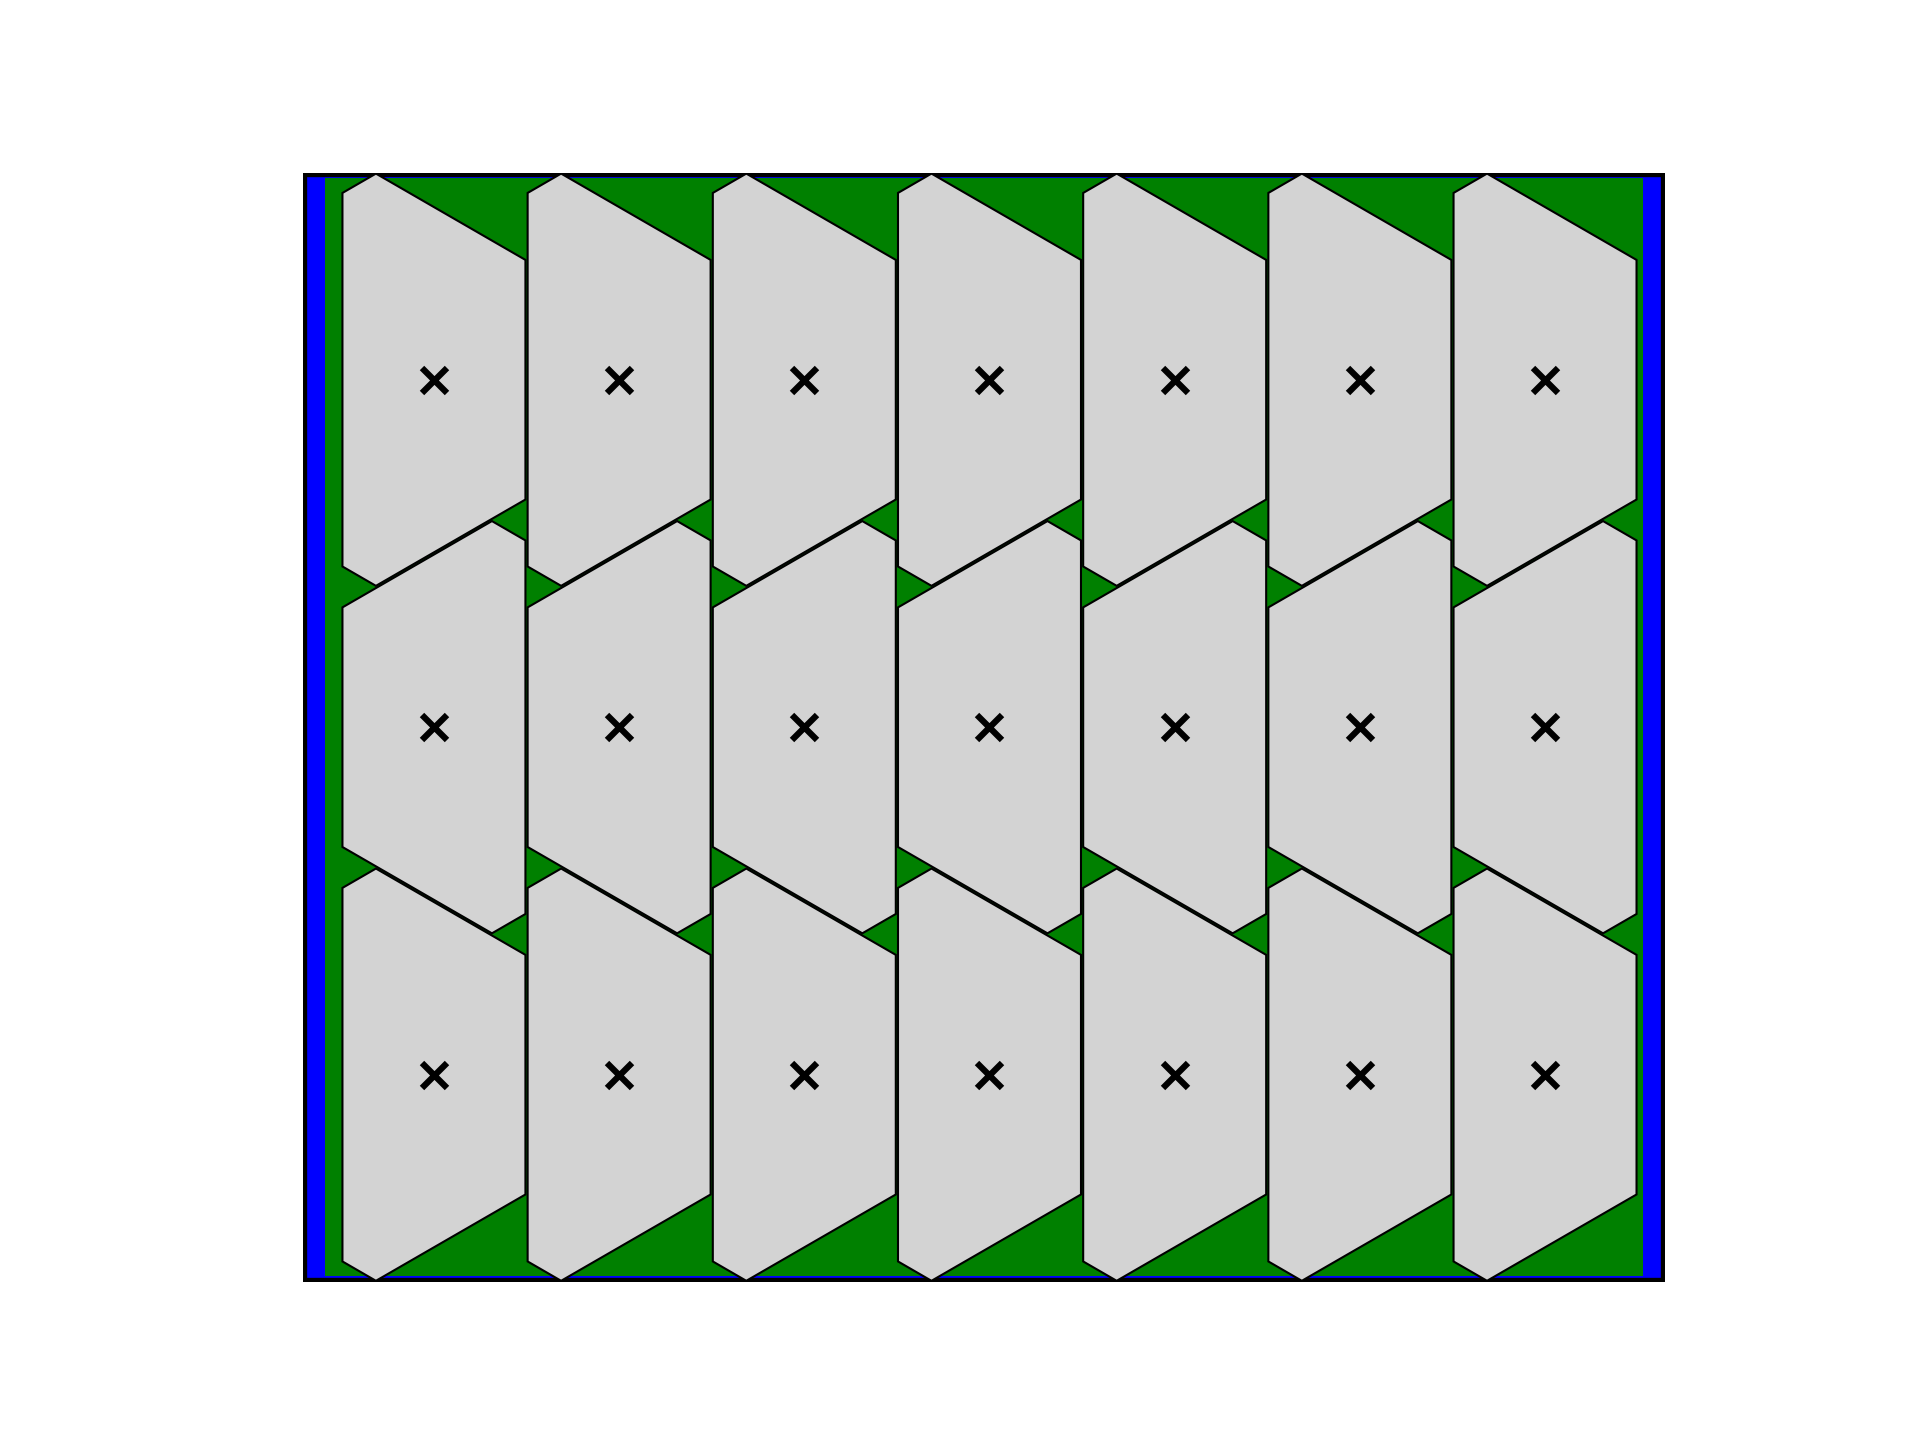
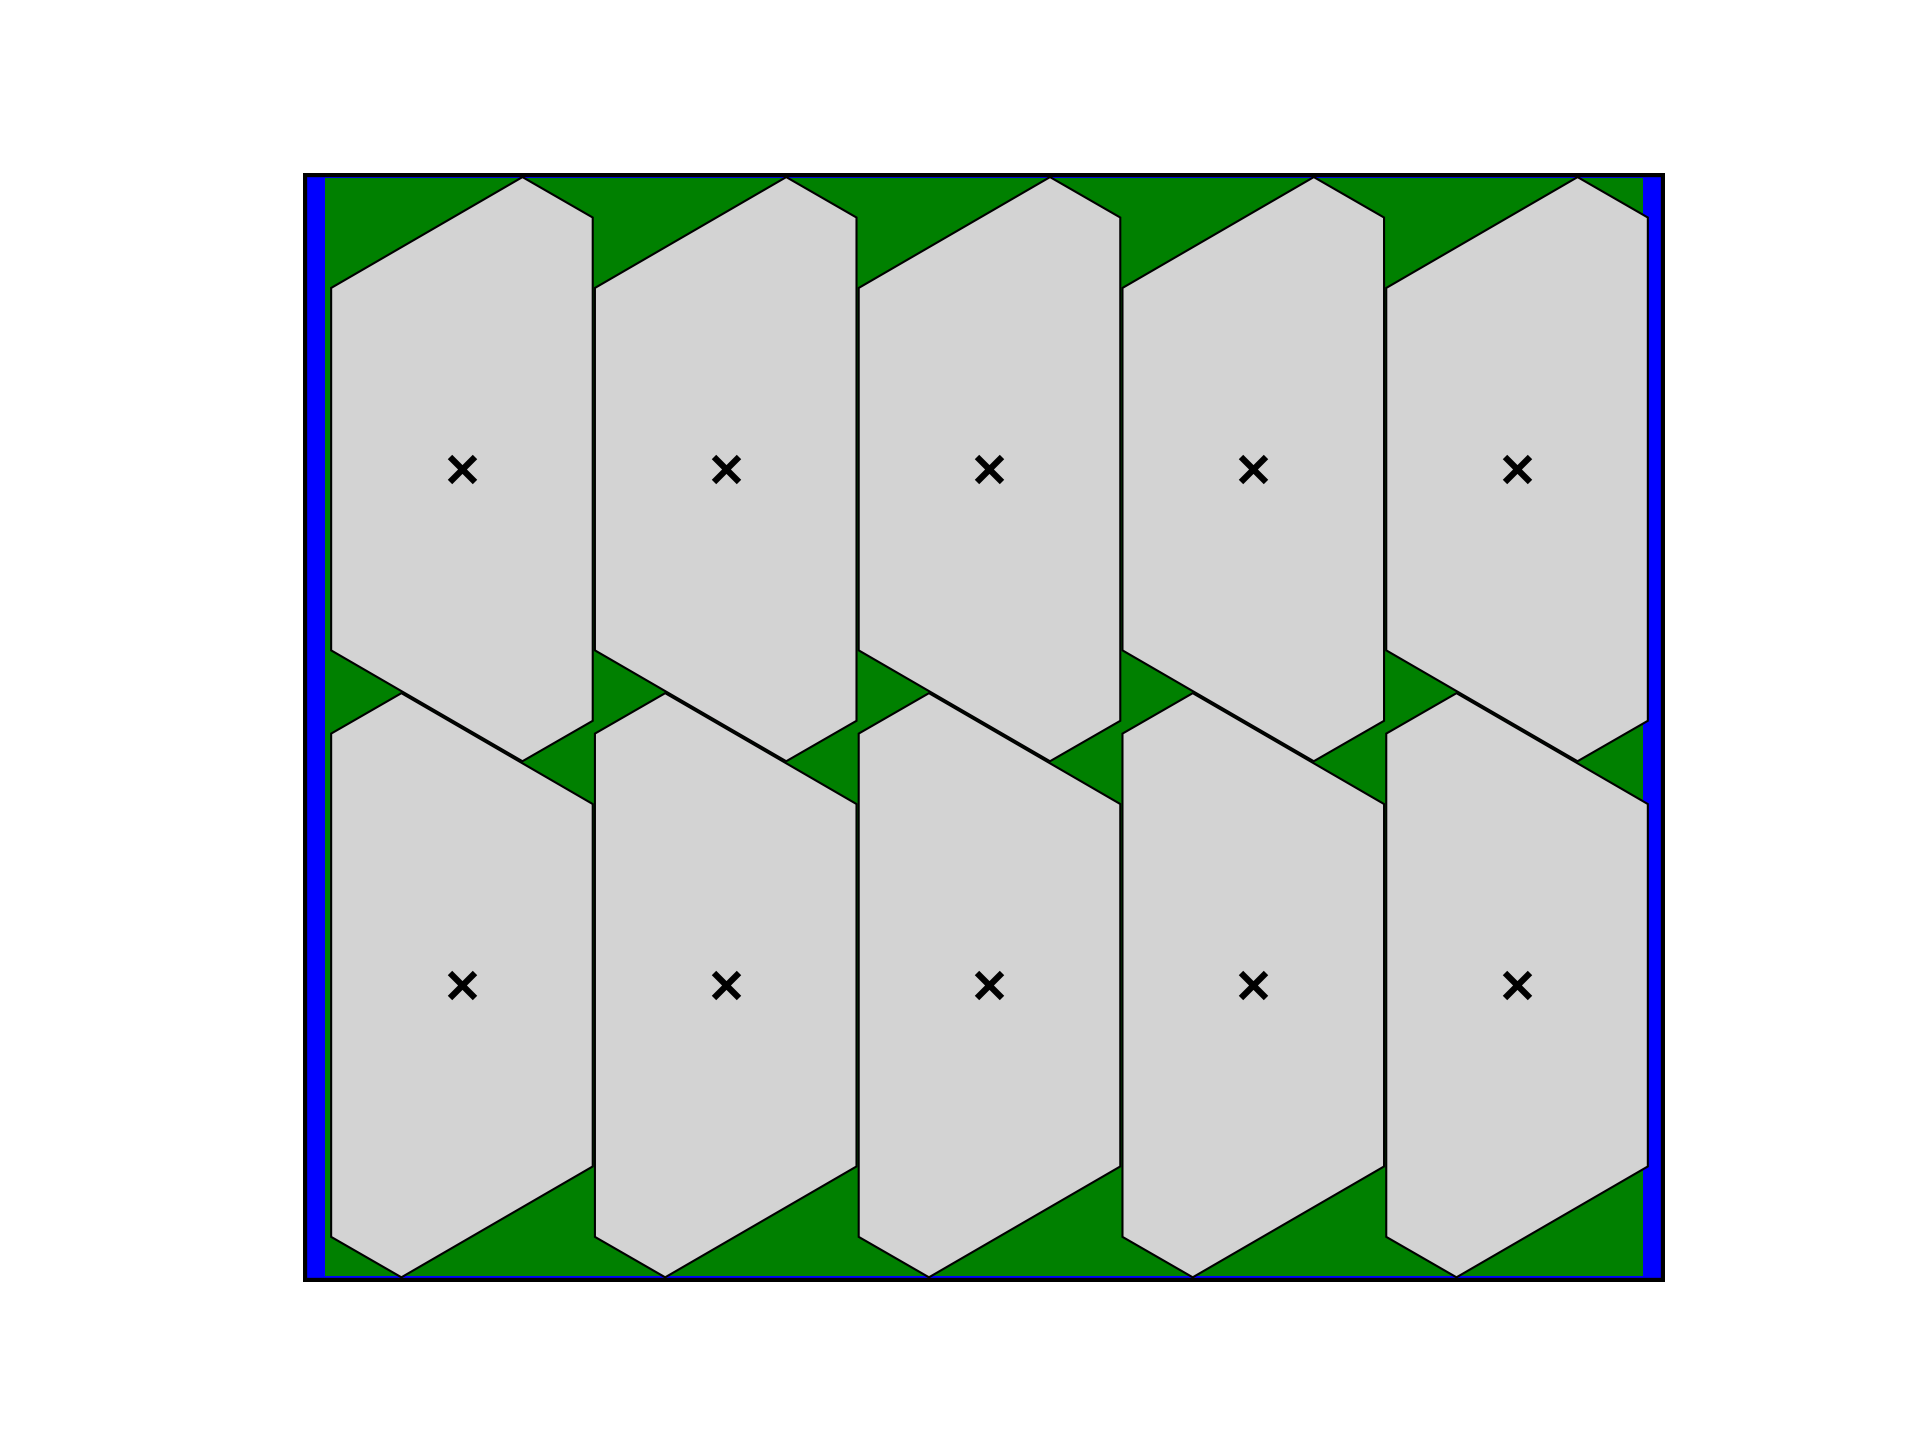
updates

diff --git a/GUI_main.py b/GUI_main.py
@@ -216,6 +216,12 @@ class App:
         self.calculate_button = tk.Button(master, text="Mostra Immagini", command=self.show_images_function)
         self.calculate_button.place(x=130, y=80)
 
+        # Create button to calculate tube compositions
+        self.calculate_button = tk.Button(master, text="Ricarica Immagini", command=self.reload_images_function)
+        self.calculate_button.place(x=280, y=80)
+
+        
+
         # Label Text
         self.label_text = tk.Label(master, text="d_int\td_est\tlunghezza\tpeso_uni")
         self.label_text.place(x=10, y=20)
@@ -266,6 +272,7 @@ class App:
         
             
         # Crea la finestra
+        global new_window
         new_window = tk.Toplevel()
         
         # Carica le immagini e ridimensionale se necessario
@@ -299,6 +306,40 @@ class App:
         
         # Avvia il loop dell'interfaccia grafica
         new_window.mainloop()
+
+    def reload_images_function(self):
+        self.reload_images("images/hex.png", "images/rect.png", "images/hex_actual.png", "images/trap.png")
+
+    def reload_images(self, image_path_1, image_path_2, image_path_3, image_path_4, max_size=(480, 400)):
+
+        # Carica le immagini e ridimensionale se necessario
+        image_1 = Image.open(image_path_1)
+        image_2 = Image.open(image_path_2)
+        image_3 = Image.open(image_path_3)
+        image_4 = Image.open(image_path_4)
+        image_1.thumbnail(max_size, Image.BILINEAR)
+        image_2.thumbnail(max_size, Image.BILINEAR)
+        image_3.thumbnail(max_size, Image.BILINEAR)
+        image_4.thumbnail(max_size, Image.BILINEAR)
+        photo_1 = ImageTk.PhotoImage(image_1)
+        photo_2 = ImageTk.PhotoImage(image_2)
+        photo_3 = ImageTk.PhotoImage(image_3)
+        photo_4 = ImageTk.PhotoImage(image_4)
+        
+        # Crea due widget Label per visualizzare le immagini affiancate
+        label_1 = tk.Label(new_window, image=photo_1)
+        label_1.grid(row=1, column=0)
+        label_2 = tk.Label(new_window, image=photo_2)
+        label_2.grid(row=1, column=1)
+        label_3 = tk.Label(new_window, image=photo_3)
+        label_3.grid(row=0, column=0)
+        label_4 = tk.Label(new_window, image=photo_4)
+        label_4.grid(row=0, column=1)
+
+        # Avvia il loop dell'interfaccia grafica
+        new_window.mainloop()
+
+
     
 root = tk.Tk()
 root.geometry("580x500")

diff --git a/folder_3/Main.py b/folder_3/Main.py
@@ -1,4 +1,5 @@
 from folder_3 import Trapeze as t
+from folder_3 import RotatedTrapeze as rt
 
 rect_height = 101
 rect_width = 125
@@ -24,7 +25,7 @@ def place_trapezes(B, b, b_med, h_min, h_max, radius):
             else:
                 trapezes.append(t.Trapeze(B, b, b_med, h_min, h_max, origin[0], origin[1]))
                 
-            if origin[0] + h_max + h_max/2 + inter> rect_width:
+            if origin[0] + h_max + h_max/2 + inter > rect_width:
                 rotate180 = not rotate180
                 break
             else:
@@ -46,6 +47,47 @@ def place_trapezes(B, b, b_med, h_min, h_max, radius):
         
     
     return trapezes
+
+
+def place_rotated_trapezes(B, b, b_med, h_min, h_max, radius):
+
+    origin = [B/2, h_max/2]
+    trapezes = []
+
+    rotate180 = False
+
+    while True:
+
+        origin[0] = B/2
+
+        while True:
+            if rotate180:
+                trapezes.append(rt.RotatedTrapeze(B, b, b_med, h_min, h_max, origin[0], origin[1]))
+                trapezes[-1].rotate180()
+                rotate180 = not rotate180
+            else:
+                trapezes.append(rt.RotatedTrapeze(B, b, b_med, h_min, h_max, origin[0], origin[1]))
+                rotate180 = not rotate180
+
+            if origin[0] + B + B/2 + inter - radius > rect_width:
+                
+                break
+            else:
+                origin[0] += B + inter - radius
+        if origin[1] + h_max + h_max/2 + inter > rect_height:
+            break
+        else:
+            origin[1] += h_max + inter
+
+    last_origin = (trapezes[-1].origin_x, trapezes[-1].origin_y)
+
+    slack_y = rect_height - last_origin[1] - h_max/2
+    slack_x = rect_width - last_origin[0] - B/2
+
+    for trapeze in trapezes:
+        trapeze.update_points(slack_x/2, slack_y/2)
+
+    return trapezes
     
 
 
@@ -54,5 +96,12 @@ def place_trapezes(B, b, b_med, h_min, h_max, radius):
 def main(B_max, b_min, b_med, h_max, h_min, radius):
     
     trapezes = place_trapezes(B_max, b_min, b_med, h_max, h_min, radius)
+
+    rotated_trapezes = place_rotated_trapezes(B_max, b_min, b_med, h_max, h_min, radius)
     
-    return trapezes
+    if len(rotated_trapezes) > len(trapezes):
+
+        return rotated_trapezes
+    
+    else:
+        return trapezes

diff --git a/folder_3/RotatedTrapeze.py b/folder_3/RotatedTrapeze.py
@@ -1,0 +1,39 @@
+class RotatedTrapeze:
+    
+    def __init__(self, a, b, b_med, h_min, h_max, origin_x, origin_y):
+        self.a = a
+        self.b = b
+        self.b_med = b_med
+        self.h_min = h_min
+        self.h_max = h_max
+        self.origin_x = origin_x
+        self.origin_y = origin_y
+        self.verts = [(self.origin_x - b_med/2, self.origin_y - (self.h_max/2)),
+                        (self.origin_x + b_med/2, self.origin_y - self.h_max/2),
+                        (self.origin_x + a/2, self.origin_y - (self.h_max/2 - self.h_min)),
+                        (self.origin_x + b/2, self.origin_y + self.h_max/2),
+                        (self.origin_x - b/2, self.origin_y + self.h_max/2),
+                        (self.origin_x - a/2, self.origin_y - (self.h_max/2 - self.h_min))
+                      ]
+        
+        
+        
+    def update_points(self, slack_x, slack_y):
+        
+        self.origin_x += slack_x
+        self.origin_y += slack_y
+        
+        for i in range(len(self.verts)):
+            self.verts[i] = (self.verts[i][0] + slack_x, self.verts[i][1] + slack_y)
+             
+        
+        
+    def rotate180(self):
+        
+                self.verts = [(self.origin_x + self.b_med/2, self.origin_y + self.h_max/2),
+                                (self.origin_x - self.b_med/2, self.origin_y + self.h_max/2),
+                                (self.origin_x - self.a/2, self.origin_y + (self.h_max/2 - self.h_min)),
+                                (self.origin_x - self.b/2, self.origin_y - self.h_max/2),
+                                (self.origin_x + self.b/2, self.origin_y - self.h_max/2),
+                                (self.origin_x + self.a/2, self.origin_y + (self.h_max/2 - self.h_min)),
+                                ]
